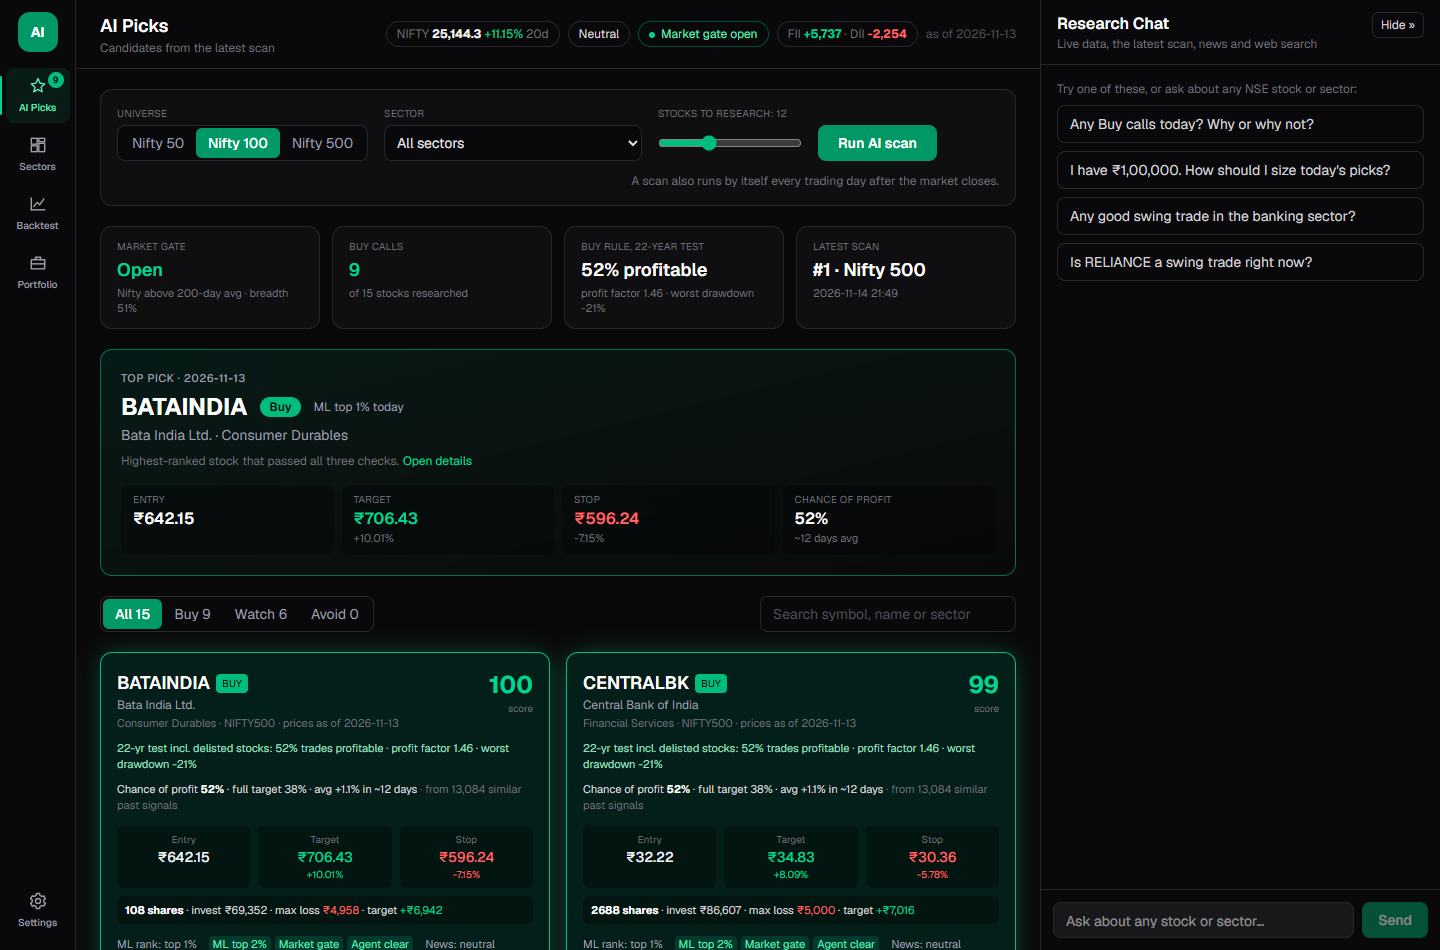
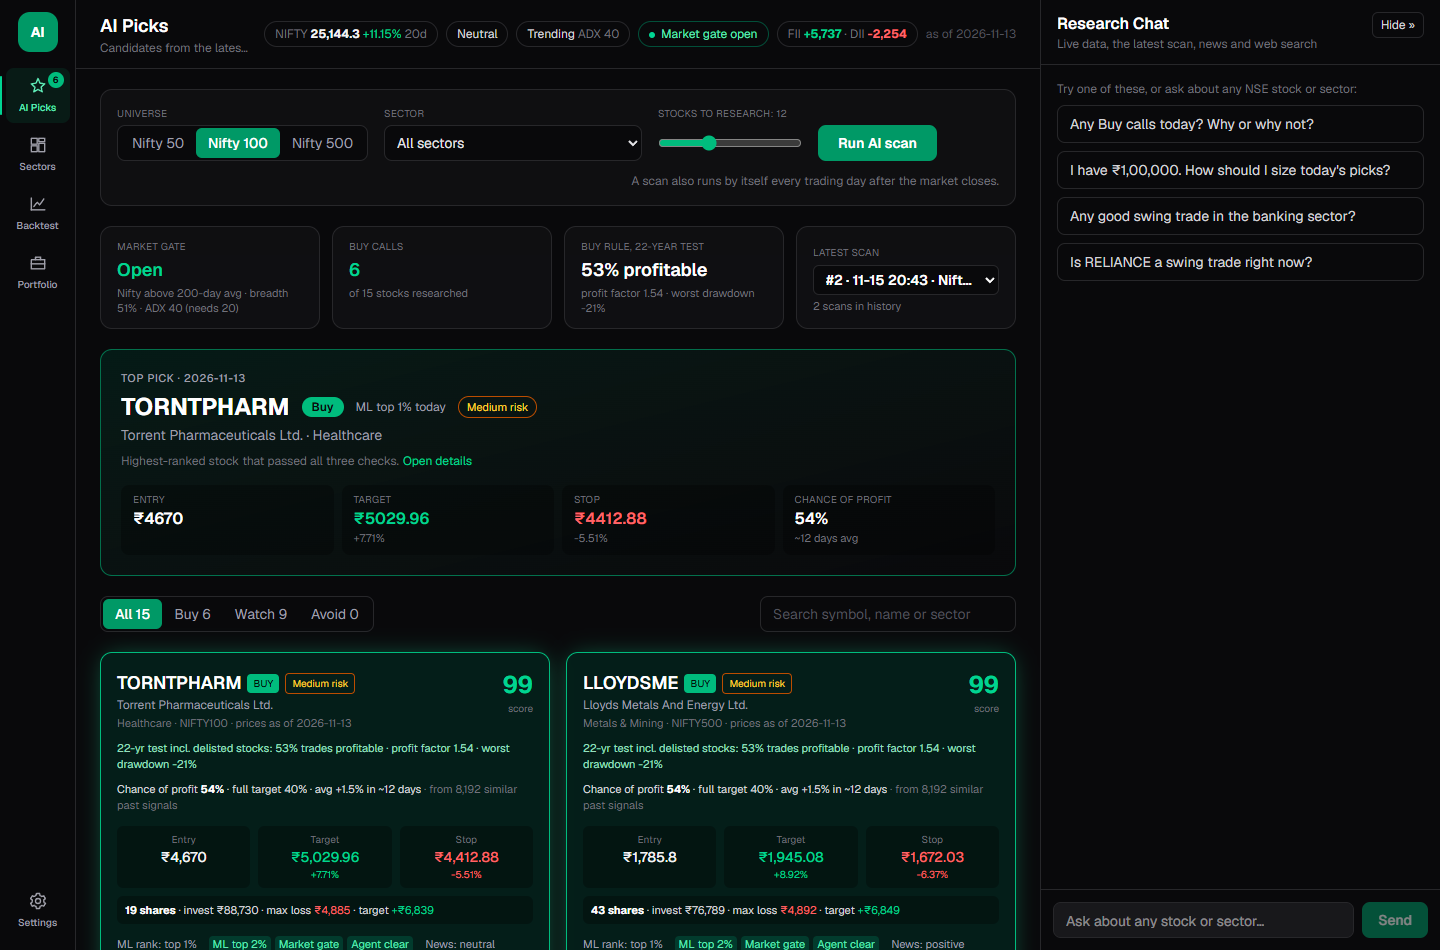
Update screenshots for the trend filter, risk badges and pick explanations
Dashboard, stock detail, backtest and mobile screenshots retaken from a fresh
scan (data to 13 Nov 2026, 6 Buy calls); README captions updated.

diff --git a/README.md b/README.md
@@ -19,7 +19,7 @@ researches each one with LLM agents, and tracks every call against real market d
 
 <br/>
 
-<img src="docs/screenshots/dashboard.png" alt="Dashboard with the navigation rail, market status, the top pick of the day and pick cards" width="100%"/>
+<img src="docs/screenshots/dashboard.png" alt="Dashboard with the navigation rail, market status and trend, the top pick of the day with its risk badge, and pick cards" width="100%"/>
 
 </div>
 
@@ -33,14 +33,14 @@ researches each one with LLM agents, and tracks every call against real market d
 
 | | |
 |---|---|
-| **Stock detail:** chance of winning from similar past signals, chart with entry / target / stop, risk-based size and rubric | **Research chat:** reads the latest scan and lists the Buy calls, or says why there are none |
+| **Stock detail:** why the model ranks the stock (SHAP), risk badge, Yahoo / NSE price check and the four-step trade plan | **Research chat:** reads the latest scan and lists the Buy calls, or says why there are none |
 | <img src="docs/screenshots/stock-detail.png" alt="Stock detail drawer"/> | <img src="docs/screenshots/chat.png" alt="Research chat answer"/> |
 | **Sector heatmap:** tiles sized by turnover; click a sector to see its stocks | **Rotation map:** which sectors are leading, weakening, lagging or improving vs the market |
 | <img src="docs/screenshots/heatmap-tiles.png" alt="Sector heatmap tiles"/> | <img src="docs/screenshots/rotation-map.png" alt="Sector rotation map"/> |
-| **Backtest:** live track record and the 22-year survivorship-free walk-forward | **Mobile:** the same dashboard on a phone, pages in a bottom bar, chat behind a button |
+| **Backtest:** the 22-year survivorship-free walk-forward, old rule vs the live rule with the trend filter | **Mobile:** the same dashboard on a phone, pages in a bottom bar, chat behind a button |
 | <img src="docs/screenshots/backtest.png" alt="Backtest tab"/> | <img src="docs/screenshots/mobile.png" alt="Mobile view" width="60%"/> |
 
-<sub>Dashboard, stock detail, chat, backtest and mobile: local run on 14 Nov 2026 (market gate open, 9 Buy calls). Heatmap and rotation map: 9 Nov 2026. Market data only; not advice.</sub>
+<sub>Dashboard, stock detail, backtest and mobile: local run on 15 Nov 2026 with data to 13 Nov (market gate open, Nifty trending, 6 Buy calls). Chat: 14 Nov 2026. Heatmap and rotation map: 9 Nov 2026. Market data only; not advice.</sub>
 
 ---
 
